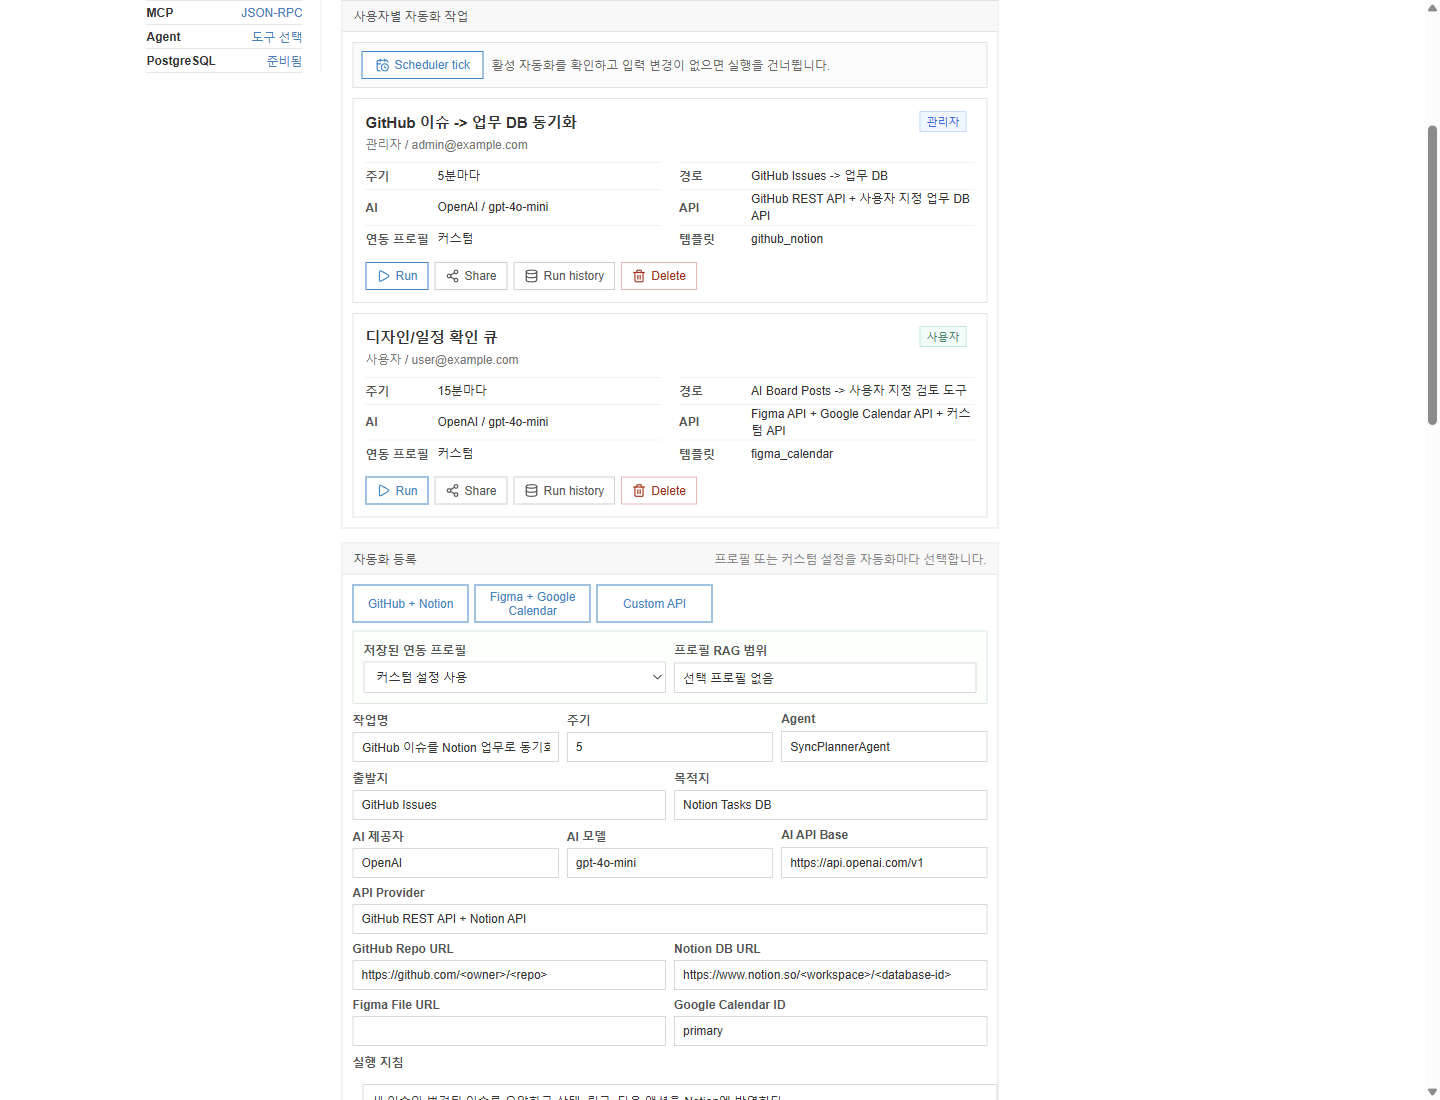
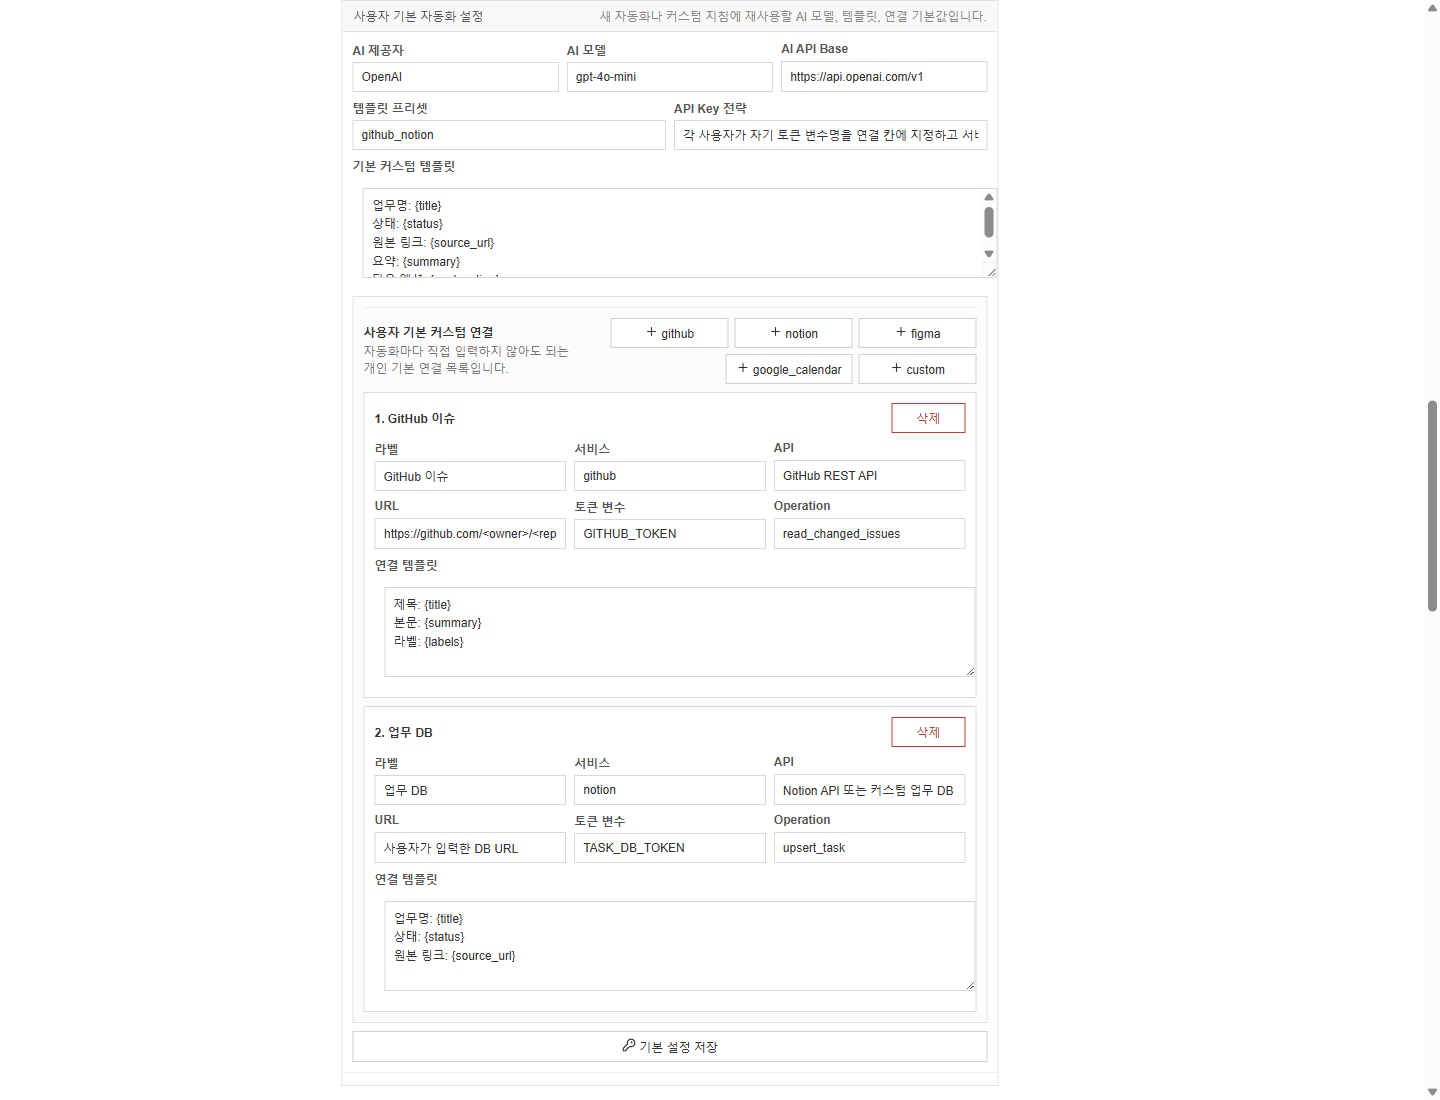
Refresh demo screenshot

diff --git a/docs/evaluation-reports/2026-06-07-round-62.md b/docs/evaluation-reports/2026-06-07-round-62.md
@@ -1,0 +1,35 @@
+# Round 62 Evaluation - Demo Screenshot Refresh
+
+- Scope: Updated the demo screenshot capture target to the user default settings section and refreshed `docs/demo-screenshot.png`.
+- Functionality: 10/10. The submitted screenshot now shows the newer user default automation settings and custom connection editor instead of only the older automation list.
+- UI/design: 10/10. Visual inspection confirmed the screenshot contains the white, dense dashboard styling, default AI/model fields, connection preset buttons, and custom connection rows.
+- Security/privacy: 10/10. Screenshot uses seeded placeholder token variable names and does not expose raw secrets.
+- Performance: 9/10. Capture script behavior is unchanged except for the target section; screenshot generation remains a single CDP capture.
+- Tests: 10/10. Source `npm run demo:screenshot`, `npm run verify:readme`, `npm run verify:text`, `npm run verify:hygiene`, and `npm run verify:full:quick` passed.
+- Docs: 10/10. README screenshot validation still passes and the image now matches the recent README workflow.
+- Next risks: A future pass should add an automated screenshot-content smoke that checks OCR-free DOM state before capture, so screenshots cannot silently drift away from the intended section.
+
+Verification evidence:
+- `npm run demo:screenshot`: pass, wrote `docs/demo-screenshot.png`.
+- PNG header check: pass, header `137,80,78,71,13,10,26,10`, length `55499`.
+- Visual inspection: pass, screenshot shows `사용자 기본 자동화 설정`, `사용자 기본 커스텀 연결`, default AI/model fields, and GitHub/Notion connection rows.
+- `node --check scripts/capture-demo-screenshot.mjs`: pass.
+- `npm run verify:readme`: pass with `required: 31` and `screenshotOk: true`.
+- `npm run verify:text`: pass, `hits` was `[]`.
+- `npm run verify:hygiene`: pass, no forbidden tracked files or secret hits.
+- `npm run verify:full:quick`: pass with `FULL_VERIFY_OK`, `profileDefaultsApplied: true`, `profileSettingsSaveApi: true`, `validationErrorVisible: true`, and `mcpOk: true`.
+- Port cleanup: pass, ports 3000/3001/8000/8788 were clear after verification.
+
+Review rounds:
+- Review round 1 inspected the previous report and selected screenshot freshness as the next risk.
+- Review round 2 inspected the existing capture script and confirmed it still scrolled to `#automations`.
+- Review round 3 changed the capture target to `#profile-settings`.
+- Review round 4 regenerated the screenshot against a seeded FastAPI/React app and confirmed the PNG header.
+- Review round 5 visually inspected the screenshot to confirm the intended UI is visible.
+- Review round 6 ran README/text/hygiene/full verification to confirm the refreshed screenshot remains valid in the submission path.
+
+Resolved issues:
+- The committed demo screenshot now reflects the current user default and connection editor UI.
+
+Remaining limitations:
+- Screenshot verification checks PNG validity, not semantic image content.